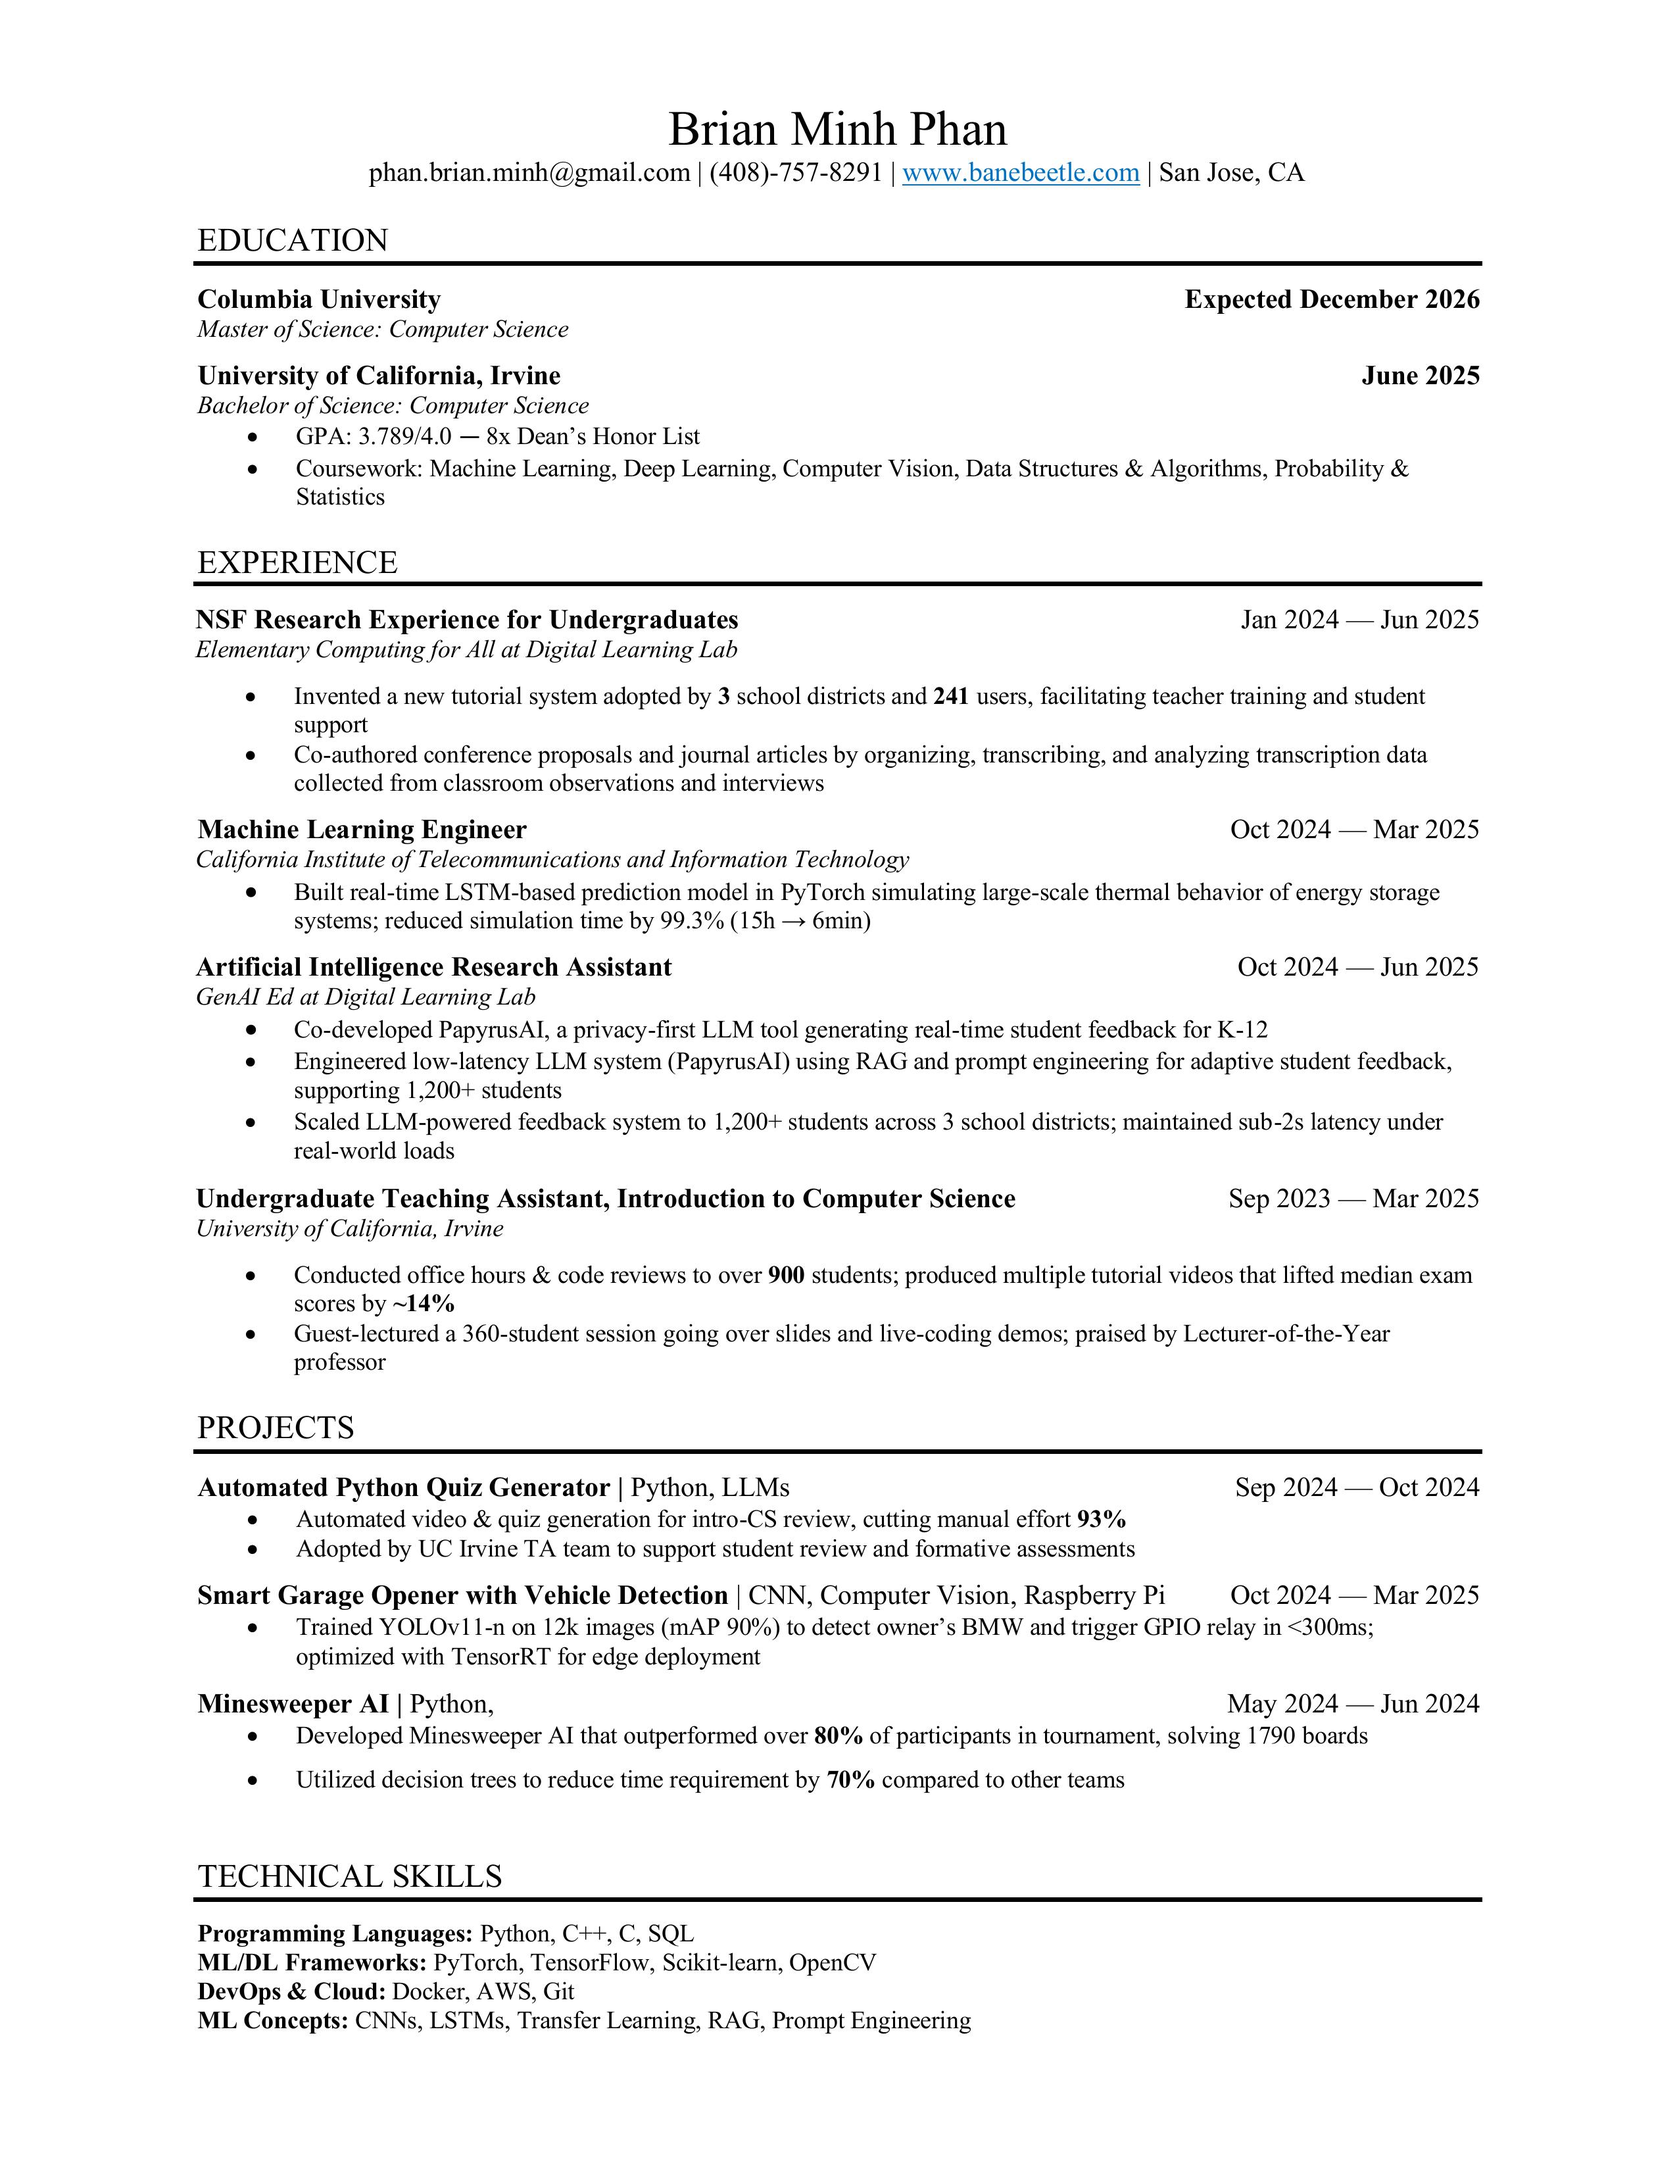
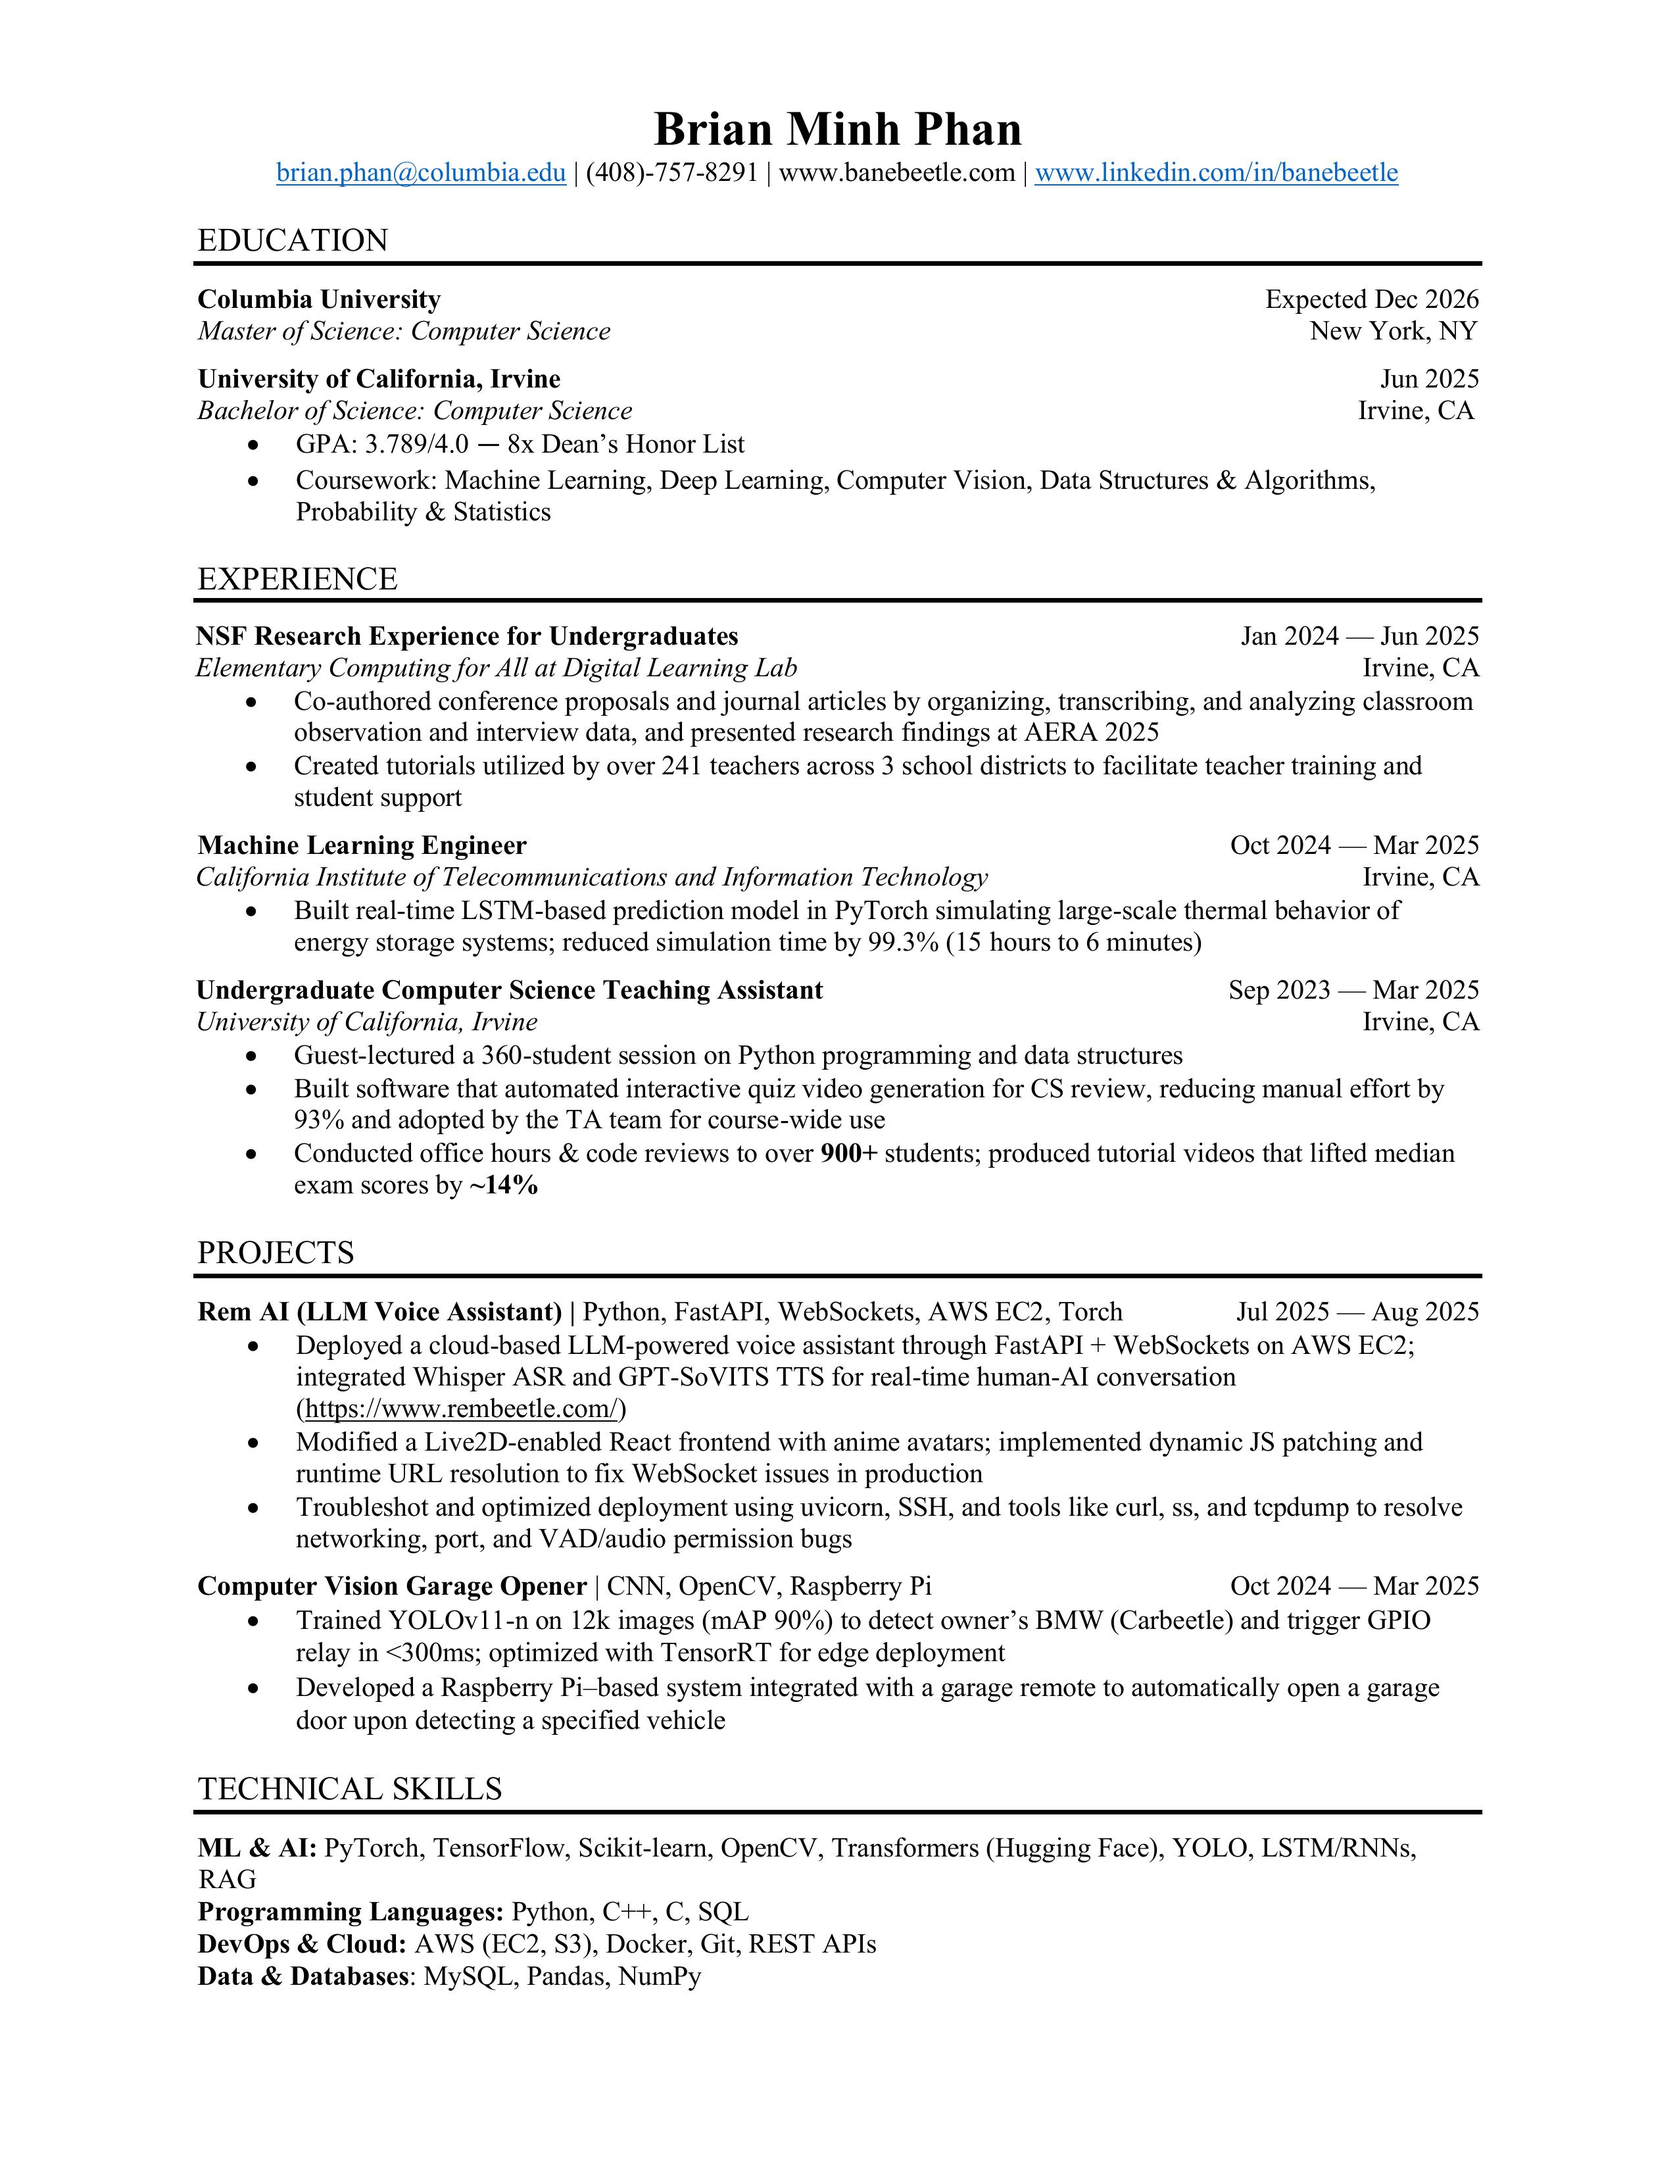
updated resume

diff --git a/index.html b/index.html
@@ -202,7 +202,7 @@
 
                                 <div class="mil-mb-90">
                                     <h2 class="mil-up mil-mb-60">Who <br>Am  <span class="mil-thin">I?</span></h2>
-                                    <p class="mil-up mil-mb-30">Hi, I'm Brian! I'm currently pursuing a Master’s of Science in Computer Science at Columbia University and have recieved my Bachelor's of Science in Computer Science at the University of California, Irvine. I’m incredibly passionate about artificial intelligence—I truly believe it has the power to reshape our reality in profound and lasting ways. Together, we're united by a shared goal: helping others. Let's harness the power of artificial intelligence to make a real difference, changing lives for the better.</p>
+                                    <p class="mil-up mil-mb-30">Hi, I'm Brian! I'm currently pursuing a Master’s of Science in Computer Science at Columbia University and have received my Bachelor's of Science in Computer Science at the University of California, Irvine. I’m incredibly passionate about artificial intelligence—I truly believe it has the power to reshape our reality in profound and lasting ways. Together, we're united by a shared goal: helping others. Let's harness the power of artificial intelligence to make a real difference, changing lives for the better.</p>
                                     <p class="mil-up mil-mb-30">Funny enough, I may have accidentally fallen in love with education. Being a TA for an intro to programming class at UC Irvine gave me a sense of purpose I didn’t expect—and a real passion for helping others grow. Do I want to become a professor? I'm not sure yet, but for now, I'll continue to do my best to help others anyway I can.</p>
                                     <p class="mil-up mil-mb-60">Outside of tech and academics, I’m a passionate mountain biker and a proud owner of a BMW M3 E46—named Carbeetle—a car passed down to me from my father. I love the thrill of speed, whether it’s flying down a mountain trail or tearing up the track with Carbeetle. That adrenaline rush keeps me sharp, focused, and always pushing forward—on the bike, behind the wheel, and in life.</p>
                                     
